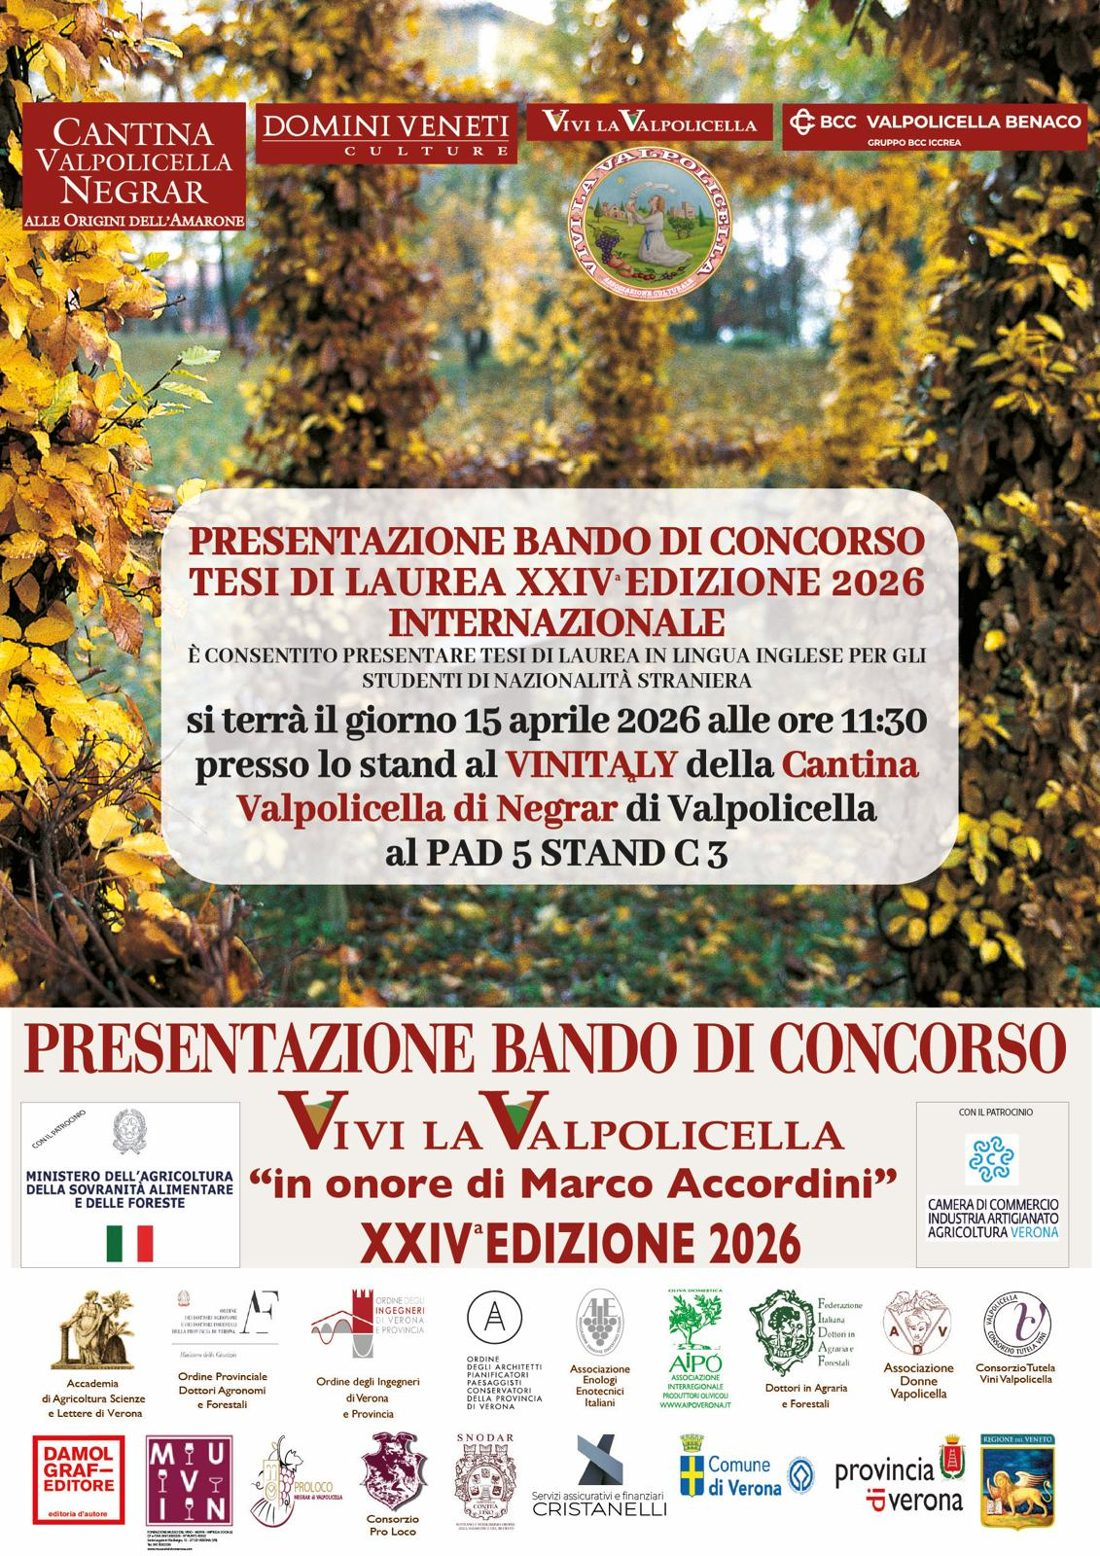
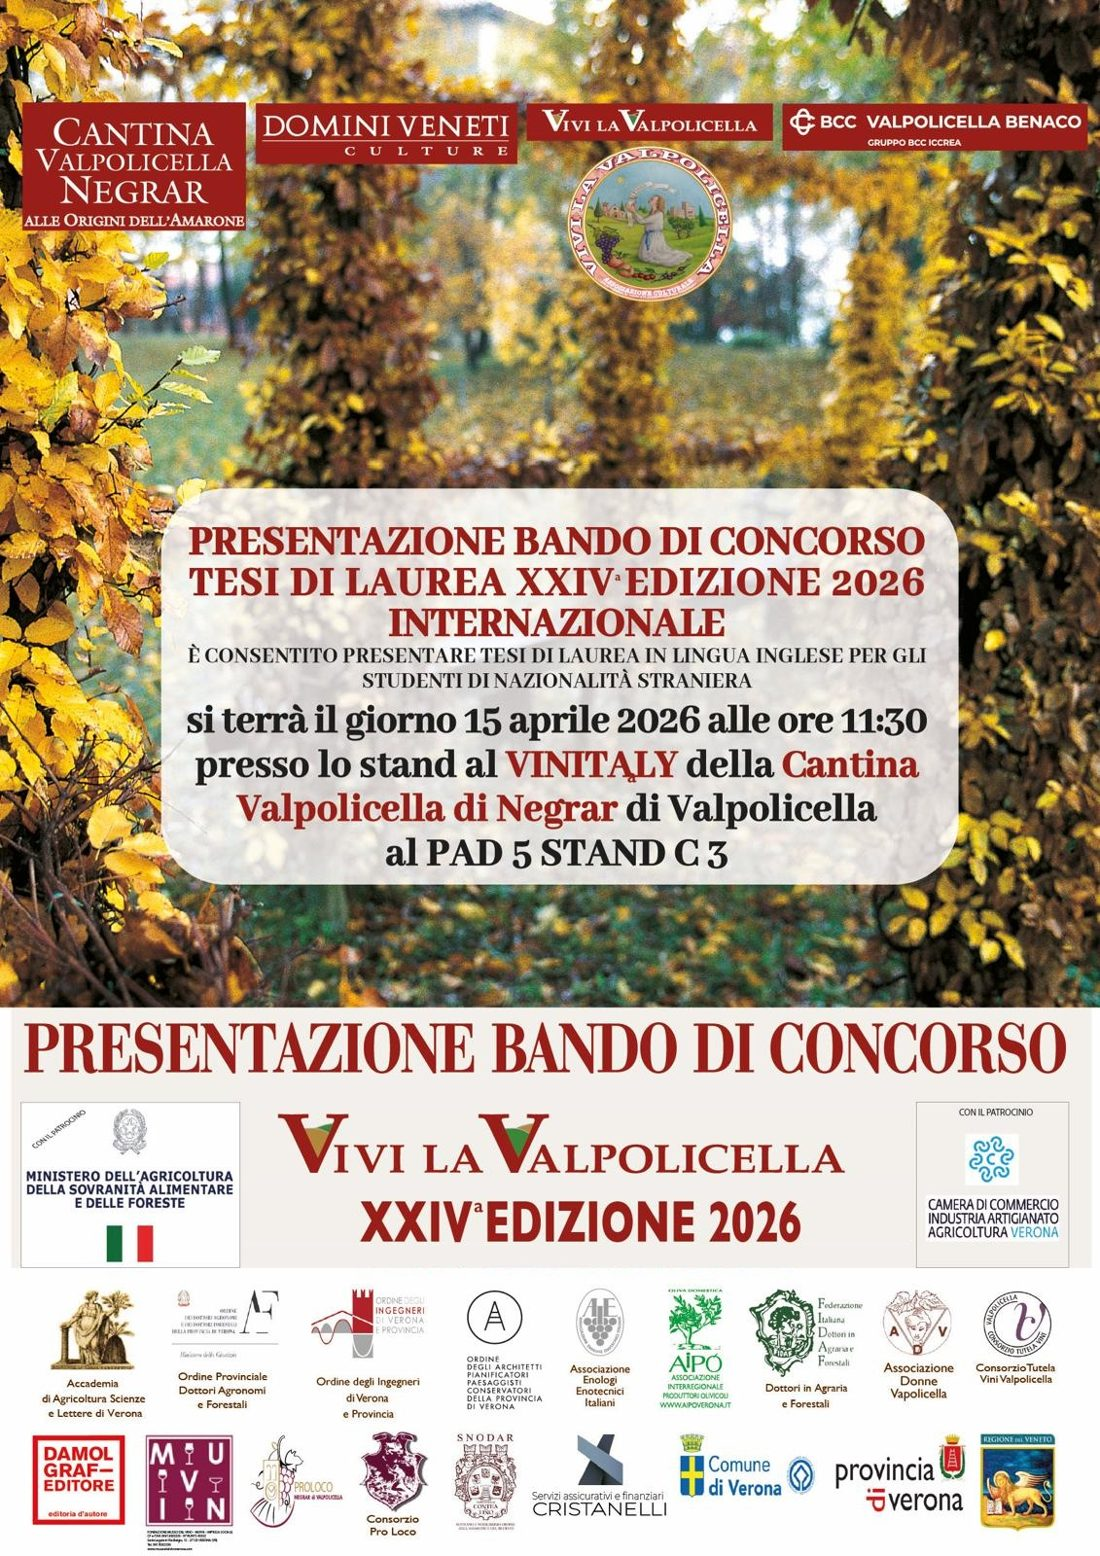
Add files via upload

Changed region(s): [[0.2164, 0.6787, 0.8036, 0.8329]]

diff --git a/index.html b/index.html
@@ -447,7 +447,7 @@ dialog.lb button{background:#EEE9E0;color:#1F1B17;border:0;border-radius:999px;p
     </div>
     <div class="cards" id="cards">
       <article class="card link" data-cat="ricerca" data-go="#premio">
-        <div class="img"><img src="img/premiati-2024.jpg" alt="I vincitori del Premio Tesi di Laurea 2024 con i diplomi" loading="lazy"></div>
+        <div class="img" style="background:#E9E4D8"><img src="img/presentazione-bando-2026.jpg" alt="Locandina del Premio Internazionale Tesi di Laurea Vivi la Valpolicella, XXIV edizione 2026" loading="lazy" style="object-fit:contain"></div>
         <div class="body"><span class="tag">Vino e ricerca</span><h3>Premio Tesi di Laurea Vivi la Valpolicella</h3><p>Quattro premi da € 1.000 per le migliori tesi su economia, viticoltura, enologia e paesaggio. XXIV edizione 2026.</p><p class="who">Responsabile: Dott. Silvano Zampini · <a href="#premio">Bando 2026</a></p></div>
       </article>
       <article class="card" data-cat="arte">
